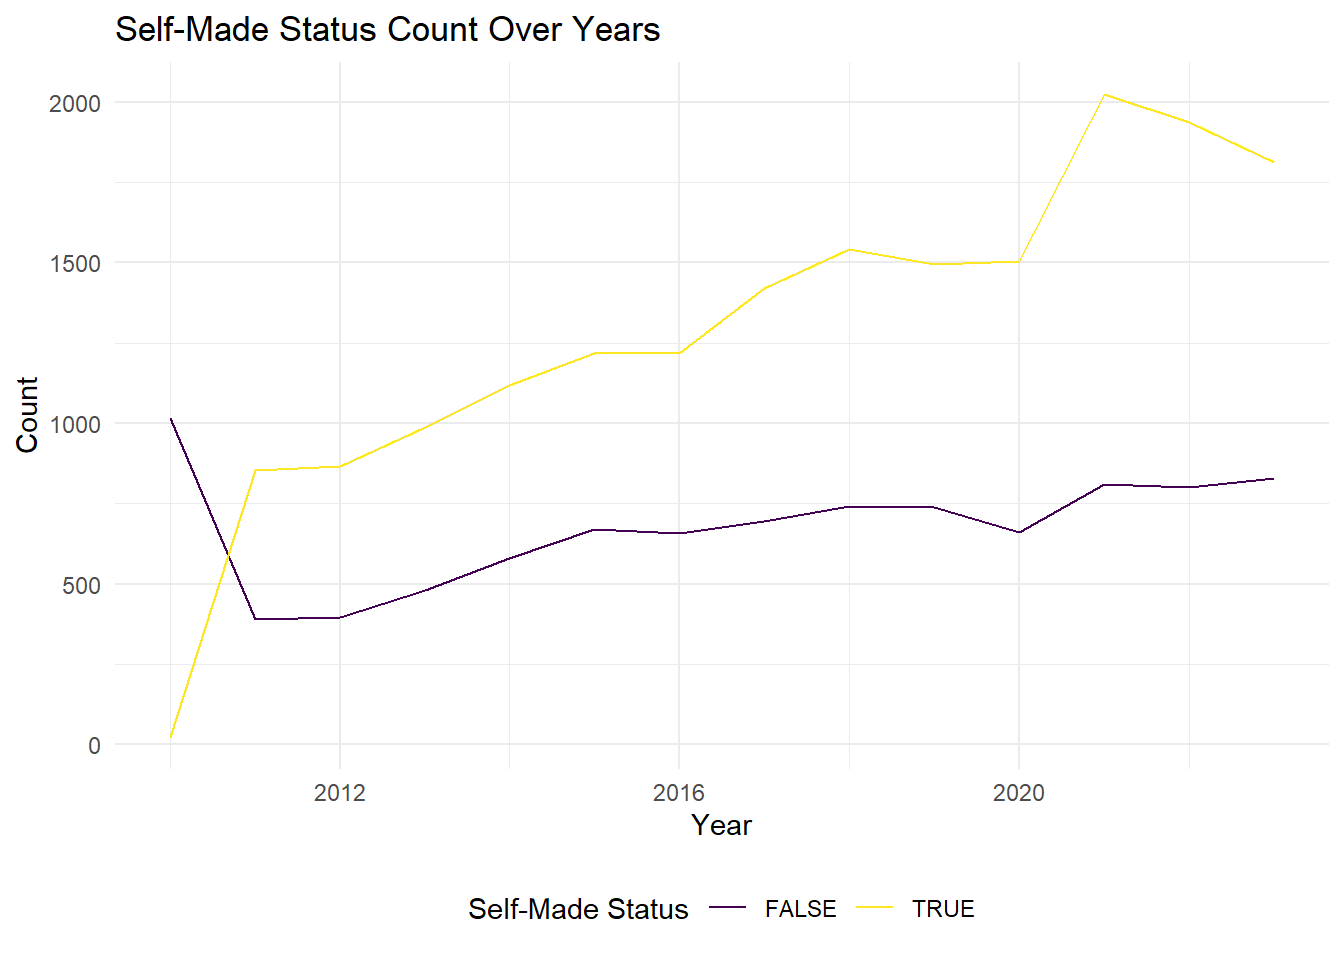
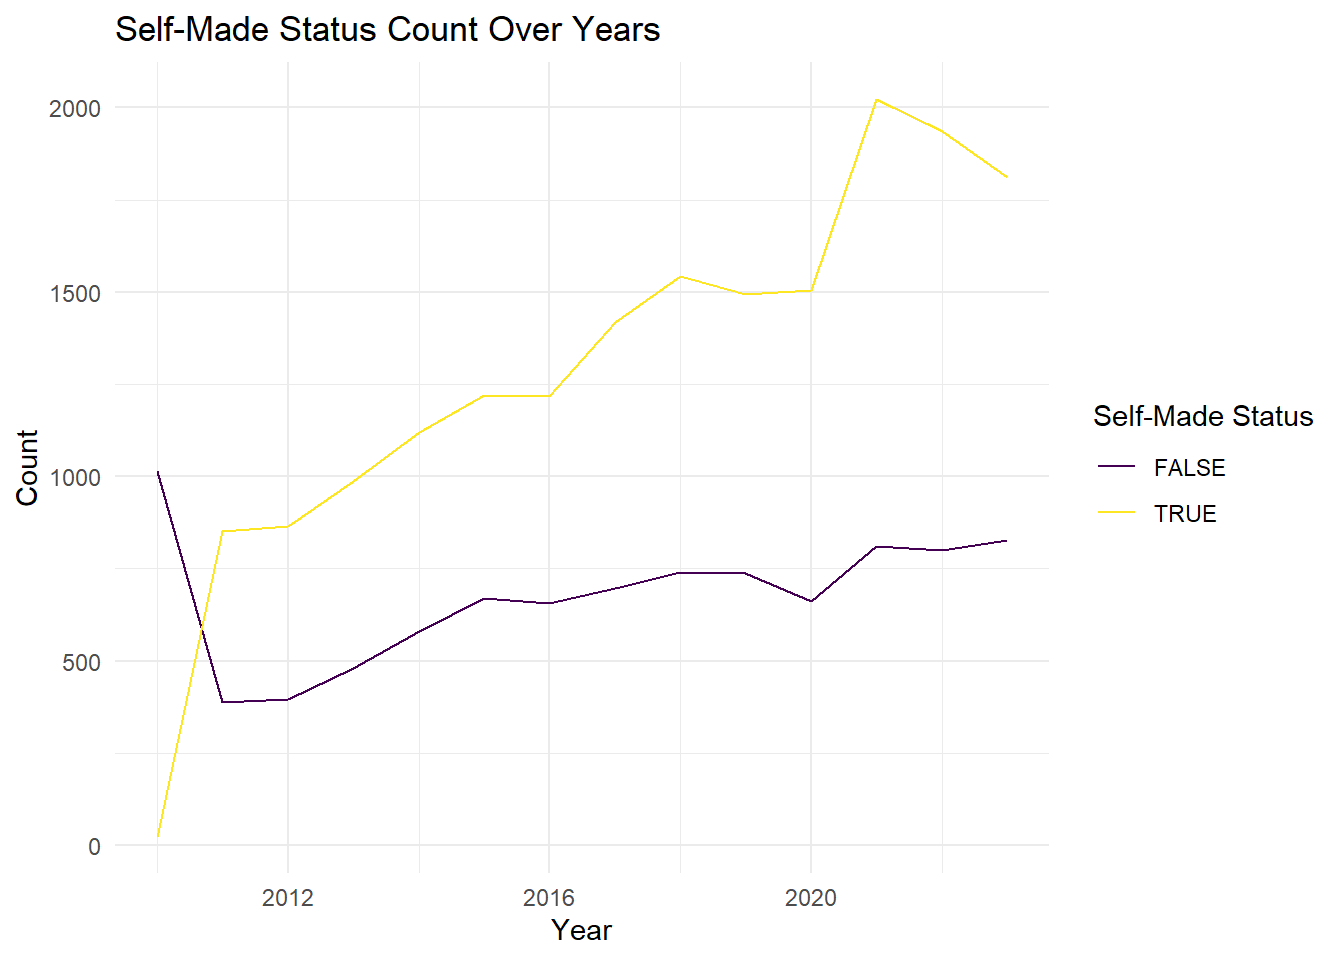
change average net worth to total net worth

diff --git a/docs/time_data.html b/docs/time_data.html
@@ -412,6 +412,7 @@ gdp_selected &lt;-
 # draw GDP plot
 ggplot(data = gdp_selected, aes(x = year, y = gdp, color = code)) +
   geom_line() +
+  theme_minimal() +
   labs(title = &quot;GDP Change from 2010 to 2022&quot;,
        x = &quot;Year&quot;, y = &quot;GDP&quot;,
        color = &quot;Country Code&quot;) +
@@ -458,17 +459,17 @@ ggplot(total_net_worth_by_year_country, aes(x = year, y = total_net_worth, group
 <pre class="r"><code>billionaires_filtered &lt;- billionaire_gdp %&gt;%
   filter(year &gt;= 2010 &amp; year &lt;= 2022) %&gt;%  na.omit()
 
-average_net_worth_by_year_gender &lt;- billionaires_filtered %&gt;%
+total_net_worth_by_year_gender &lt;- billionaires_filtered %&gt;%
   group_by(year, gender) %&gt;%
-  summarise(average_net_worth = sum(net_worth, na.rm = TRUE))
+  summarise(total_net_worth = sum(net_worth, na.rm = TRUE))
 
 
 
-ggplot(average_net_worth_by_year_gender, aes(x = year, y = average_net_worth, color = gender)) +
+ggplot(total_net_worth_by_year_gender, aes(x = year, y = total_net_worth, color = gender)) +
   geom_line() +
   theme_minimal() +
   labs(title = &quot;Total Net Worth by Gender from 2017 to 2022&quot;,
-       x = &quot;Year&quot;, y = &quot;Average Net Worth (in billions)&quot;,
+       x = &quot;Year&quot;, y = &quot;Total Net Worth (in billions)&quot;,
        color = &quot;Gender&quot;)</code></pre>
 <p><img src="time_data_files/figure-html/ave_net_worth%20by%20gender-1.png" width="672" /></p>
 </div>
@@ -484,13 +485,14 @@ net worth and ranking of billionaires over time.</p>
   drop_na(industry_gdp)
 
 
-average_gdp_by_year_industry &lt;- data_filtered %&gt;%
+total_gdp_by_year_industry &lt;- data_filtered %&gt;%
   group_by(year, industries) %&gt;%
-  summarise(average_industry_gdp = sum(industry_gdp, na.rm = TRUE))
+  summarise(total_gdp_by_year_industry = sum(industry_gdp, na.rm = TRUE))
 
-average_gdp_by_year_industry |&gt; 
-  ggplot(aes(x = year, y = average_industry_gdp, group = industries, color = industries)) +
+total_gdp_by_year_industry |&gt; 
+  ggplot(aes(x = year, y = total_gdp_by_year_industry, group = industries, color = industries)) +
     geom_line() +
+    theme_minimal() +
     labs(title = &quot;Total Industry GDP by Year from 2017 to 2022 in USA&quot;,
          x = &quot;Year&quot;, y = &quot;Industry GDP&quot;,
          color = &quot;Industries&quot;)</code></pre>
@@ -519,7 +521,7 @@ top_cities_by_year &lt;- net_worth_by_city_year %&gt;%
 ggplot(top_cities_by_year, aes(x = year, y = total_net_worth, group = city_of_residence, color = city_of_residence)) +
   geom_line() +
   theme_minimal() +
-  labs(title = &quot;Top 10 Cities&#39; Net Worth Trend by Year (2010-2023)&quot;,
+  labs(title = &quot;Top 5 Cities&#39; Net Worth Trend by Year (2010-2023)&quot;,
        x = &quot;Year&quot;, y = &quot;Total Net Worth (Billions)&quot;,
        color = &quot;City of Residence&quot;) +
   theme(legend.position = &quot;bottom&quot;)</code></pre>
@@ -536,6 +538,7 @@ some years, the total city of net worth is surpassed by others.</p>
 
 ggplot(self_made_trend, aes(x = year, y = count, color = self_made, group = self_made)) +
   geom_line() +
+  theme_minimal() +
   labs(title = &quot;Self-Made Status Count Over Years&quot;,
        x = &quot;Year&quot;, y = &quot;Count&quot;,
        color = &quot;Self-Made Status&quot;)</code></pre>
